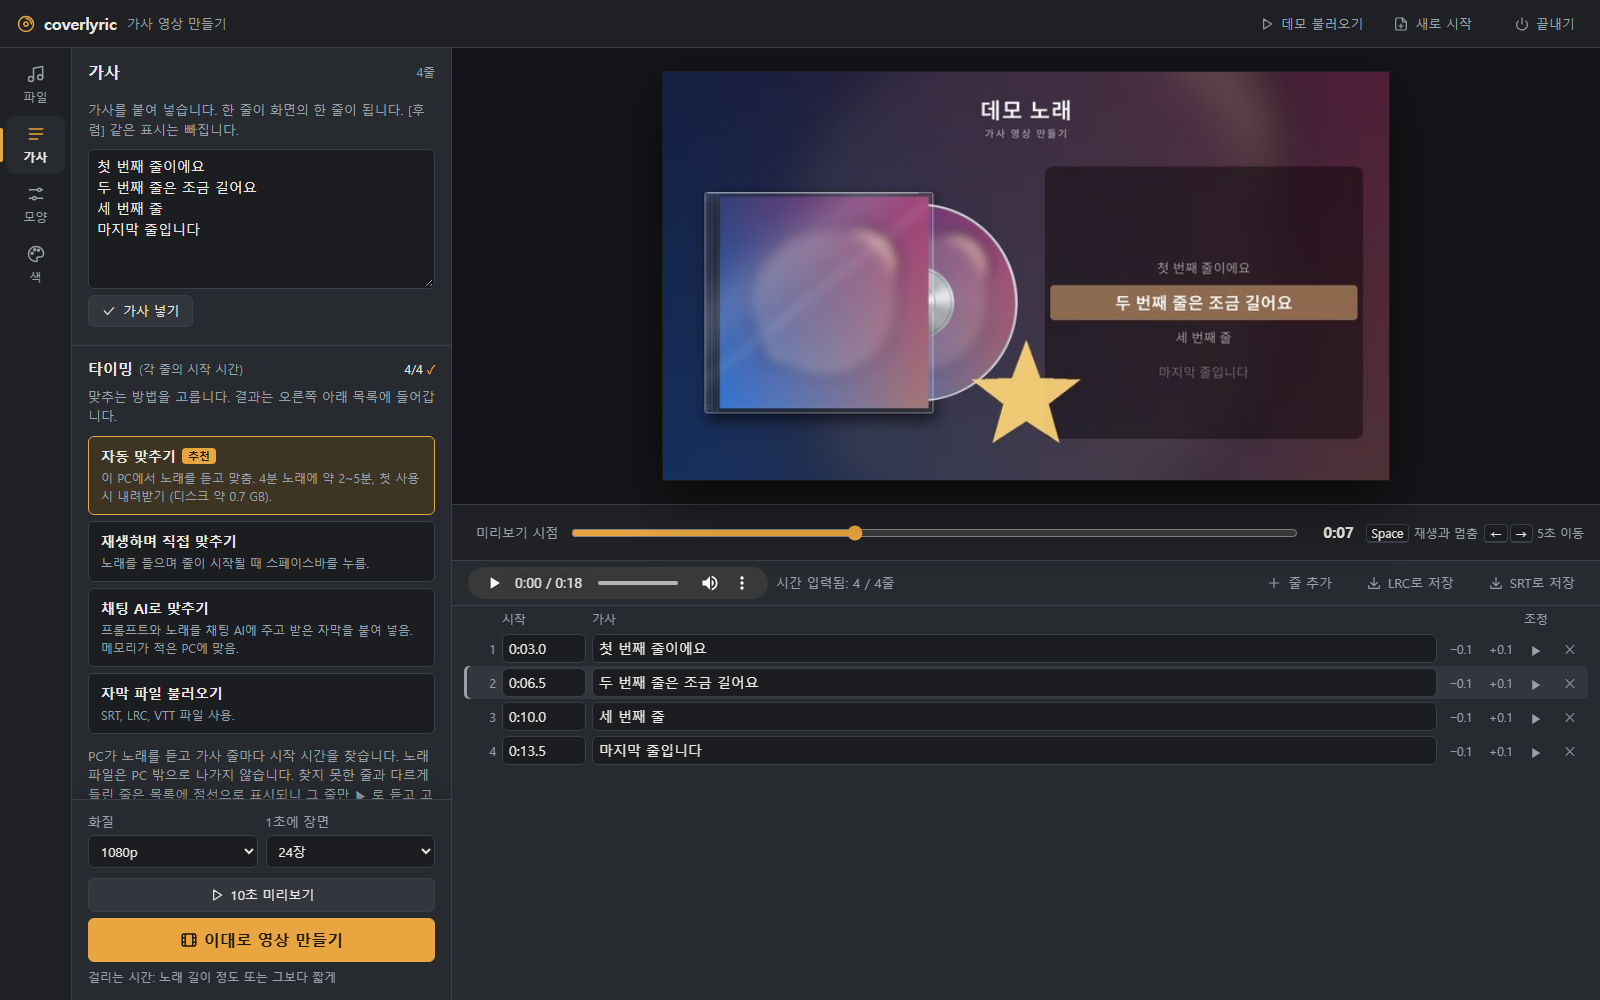
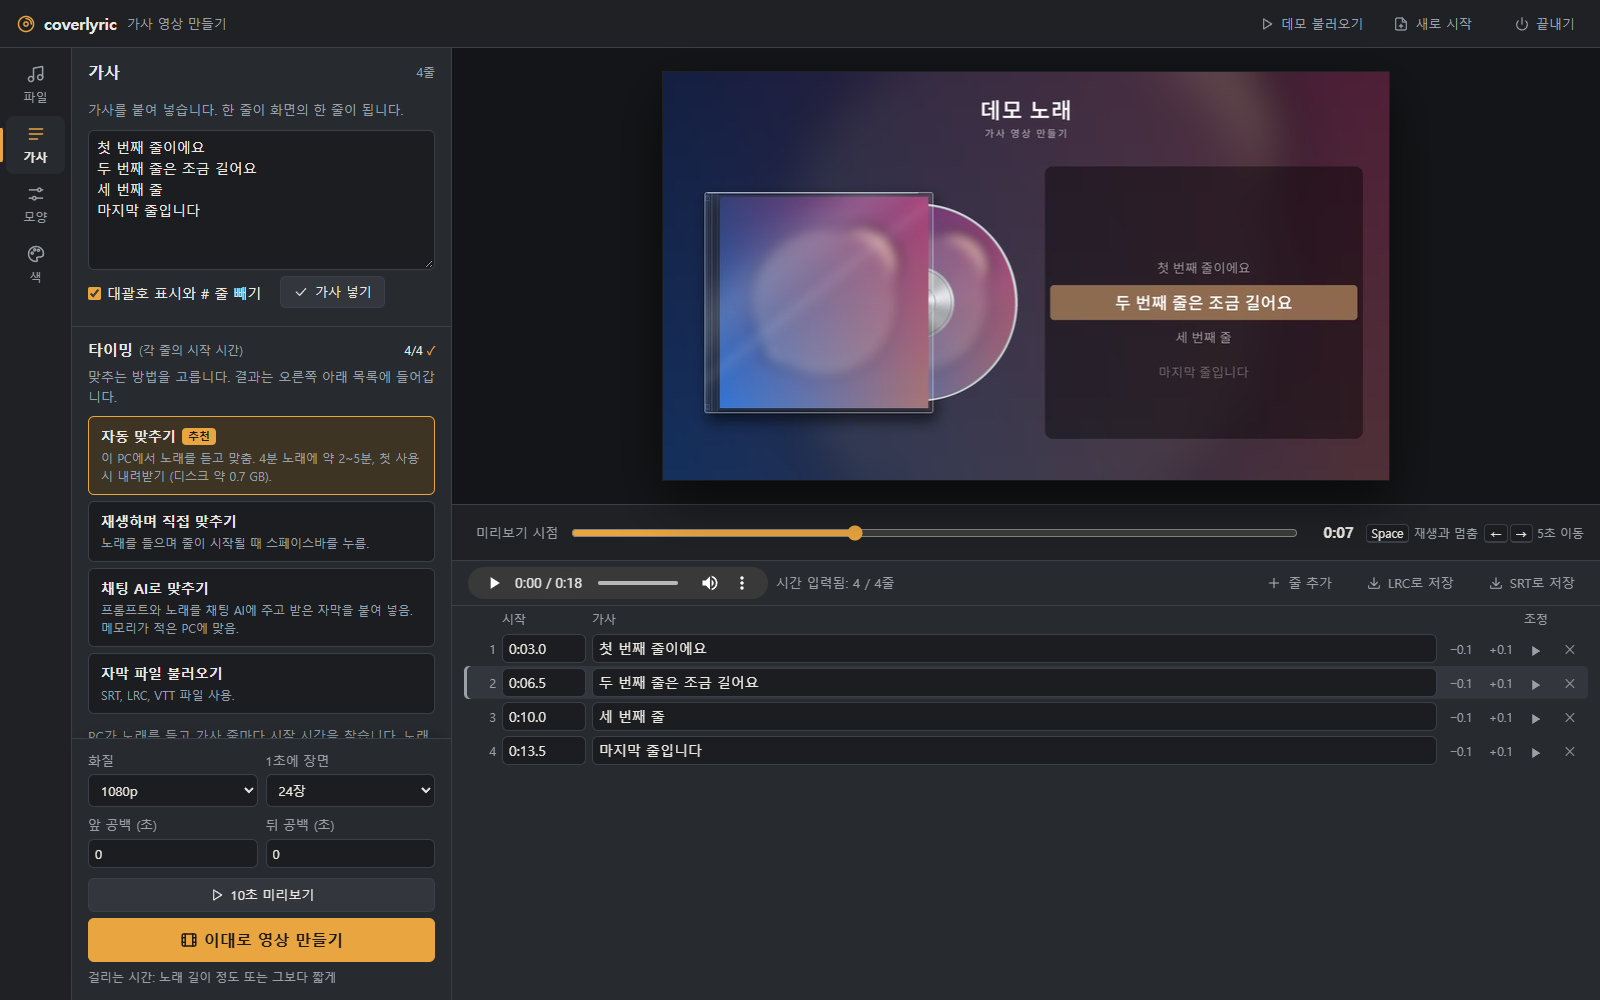
feat: switch for dropping [..] marks and # lines

diff --git a/src/coverlyric/web/app.js b/src/coverlyric/web/app.js
@@ -53,7 +53,7 @@ async function api(path, options = {}) {
 }
 
 function payload() {
-  return { title: state.title, artist: state.artist, lines: state.lines, style: state.style, anim: state.anim };
+  return { title: state.title, artist: state.artist, lines: state.lines, style: state.style, anim: state.anim, clean_tags: state.clean_tags };
 }
 
 function scheduleSync(delay = 150) {
@@ -387,6 +387,7 @@ function fillLook() {
 function fillAll() {
   $("title").value = state.title;
   $("artist").value = state.artist;
+  $("clean_tags").checked = state.clean_tags !== false;
   $("audio-name").textContent = state.has_audio ? `길이 ${clock(state.duration).replace(/\.\d+$/, "")}` : "없음";
   $("art-name").textContent = state.has_art ? "표지 있음" : "정사각형 권장";
   updateStatus();
@@ -720,7 +721,7 @@ async function loadFonts() {
 async function importText(name, text) {
   const res = await api("/api/import", {
     method: "POST",
-    headers: { "X-Name": encodeURIComponent(name) },
+    headers: { "X-Name": encodeURIComponent(name), "X-Clean": state.clean_tags === false ? "0" : "1" },
     body: text,
   });
   const data = await res.json();
@@ -1046,12 +1047,13 @@ function bind() {
   $("font-file").addEventListener("change", (e) => upload("font", e.target.files[0]));
   $("title").addEventListener("input", (e) => { state.title = e.target.value; scheduleSync(500); });
   $("artist").addEventListener("input", (e) => { state.artist = e.target.value; scheduleSync(500); });
+  $("clean_tags").addEventListener("change", (e) => { state.clean_tags = e.target.checked; scheduleSync(0); });
 
   $("lyrics-apply").addEventListener("click", async () => {
     const text = $("lyrics-text").value;
     if (!text.trim()) { toast("가사 칸이 비어 있습니다. 가사를 붙여 넣습니다."); return; }
     if (state.lines.some(([t]) => t != null) && !confirm("목록의 시간이 지워집니다. 새 가사로 바꾸시겠습니까?")) return;
-    const res = await api("/api/import", { method: "POST", headers: { "X-Name": "lyrics.txt" }, body: text });
+    const res = await api("/api/import", { method: "POST", headers: { "X-Name": "lyrics.txt", "X-Clean": state.clean_tags === false ? "0" : "1" }, body: text });
     state.lines = (await res.json()).lines;
     diff = [];
     drawLines();

diff --git a/src/coverlyric/web/index.html b/src/coverlyric/web/index.html
@@ -64,8 +64,9 @@
     </section>
     <section class="pane" id="g-lyrics" role="tabpanel" aria-labelledby="tab-lyrics" hidden>
       <h2 class="pane-head">가사<span class="state" id="state-lyrics"></span></h2>
-      <p class="help">가사를 붙여 넣습니다. 한 줄이 화면의 한 줄이 됩니다. [후렴] 같은 표시는 빠집니다.</p>
+      <p class="help">가사를 붙여 넣습니다. 한 줄이 화면의 한 줄이 됩니다.</p>
       <textarea id="lyrics-text" rows="6" placeholder="여기에 가사를 붙여 넣기"></textarea>
+      <label class="check" title="[Verse 1] 같은 대괄호 표시와 # 으로 시작하는 줄을 빼고 넣습니다. 끄면 쓴 그대로 넣습니다 (빈 줄은 뺍니다)"><input type="checkbox" id="clean_tags"> 대괄호 표시와 # 줄 빼기</label>
       <button id="lyrics-apply"><svg class="i"><use href="#i-check"/></svg>가사 넣기</button>
       <h2 class="pane-head sub">타이밍 <span class="note">(각 줄의 시작 시간)</span><span class="state" id="state-timing"></span></h2>
       <p class="help">맞추는 방법을 고릅니다. 결과는 오른쪽 아래 목록에 들어갑니다.</p>

diff --git a/src/coverlyric/timing.py b/src/coverlyric/timing.py
@@ -22,31 +22,33 @@ SECTION = re.compile(
 BRACKETS = re.compile(r"\[[^\]]*\]")
 
 
-def sung(line: str) -> str:
+def sung(line: str, clean: bool = True) -> str:
     """The words of a lyric line that are sung. Square-bracket notes such as Suno's
     "[Verse 1 — Conversational, rhythmic]" are removed, a line starting with # is a comment and
     becomes empty, and a whole-line section tag such as (Chorus) is dropped. Round brackets inside a
-    line, such as "(echo)", are sung and stay."""
+    line, such as "(echo)", are sung and stay. With `clean` off the line is kept as typed."""
     line = line.strip()
+    if not clean:
+        return line
     if line.startswith("#") or SECTION.match(line):
         return ""
     return " ".join(BRACKETS.sub(" ", line).split())
 
 
-def from_text(text: str) -> list[Line]:
+def from_text(text: str, clean: bool = True) -> list[Line]:
     """One line per sung line of the pasted lyrics, without times. Blank lines, # comments and lines
     that are only [..] tags are dropped."""
-    return [(None, line) for raw in text.splitlines() if (line := sung(raw))]
+    return [(None, line) for raw in text.splitlines() if (line := sung(raw, clean))]
 
 
-def parse_lrc(text: str) -> list[Line]:
+def parse_lrc(text: str, clean: bool = True) -> list[Line]:
     rows = []
     for raw in text.splitlines():
         stamps = list(STAMP.finditer(raw))
         if not stamps:
             continue
         words = raw[stamps[-1].end() :]
-        words = sung(re.sub(r"<\d+:\d+(?:\.\d+)?>", "", words))  # enhanced LRC word stamps
+        words = sung(re.sub(r"<\d+:\d+(?:\.\d+)?>", "", words), clean)  # enhanced LRC word stamps
         for m in stamps:
             rows.append((int(m[1]) * 60 + float(m[2].replace(":", ".")), words))
     return sorted(rows, key=lambda r: r[0])
@@ -56,7 +58,7 @@ def cue_seconds(h: str | None, m: str, s: str, ms: str) -> float:
     return int(h or 0) * 3600 + int(m) * 60 + int(s) + int(ms.ljust(3, "0")) / 1000
 
 
-def parse_cues(text: str) -> list[Line]:
+def parse_cues(text: str, clean: bool = True) -> list[Line]:
     """SRT and WebVTT: each cue's start and its text joined on one line; a gap between cues longer than
     a second becomes an empty line, so the band leaves the last line when the singing stops."""
     rows: list[Line] = []
@@ -68,7 +70,7 @@ def parse_cues(text: str) -> list[Line]:
             if m := CUE_TIME.search(raw):
                 start = cue_seconds(*m.groups()[:4])
                 end = cue_seconds(*m.groups()[4:])
-                words = " ".join(w for b in block[i + 1 :] if (w := sung(TAG.sub("", b))))
+                words = " ".join(w for b in block[i + 1 :] if (w := sung(TAG.sub("", b), clean)))
                 if ends and start - ends[-1] > 1.0:
                     rows.append((ends[-1], ""))
                 rows.append((start, words))
@@ -85,17 +87,17 @@ def parse_cues(text: str) -> list[Line]:
     return rows
 
 
-def parse(name: str, text: str) -> list[Line]:
+def parse(name: str, text: str, clean: bool = True) -> list[Line]:
     """Read a timing file by its extension, or by its look when the extension says nothing."""
     text = text.lstrip("")
     lower = name.lower()
     if lower.endswith(".lrc"):
-        return parse_lrc(text)
+        return parse_lrc(text, clean)
     if lower.endswith((".srt", ".vtt")) or "-->" in text:
-        return parse_cues(text)
+        return parse_cues(text, clean)
     if STAMP.search(text):
-        return parse_lrc(text)
-    return from_text(text)
+        return parse_lrc(text, clean)
+    return from_text(text, clean)
 
 
 def stamp(seconds: float) -> str:

diff --git a/src/coverlyric/server.py b/src/coverlyric/server.py
@@ -166,6 +166,8 @@ class App:
             p.lines = [
                 (None if t is None else round(float(t), 3), str(text)) for t, text in data["lines"]
             ]
+        if "clean_tags" in data:
+            p.clean_tags = bool(data["clean_tags"])
         if "style" in data:
             style = Style.from_dict(data["style"])
             if not fonts.allowed(style.font, self.work):
@@ -827,7 +829,10 @@ def handler(app: App, server_ref: list) -> type[BaseHTTPRequestHandler]:
                 elif url.path == "/api/import":
                     name = unquote(self.headers.get("X-Name", "lyrics.txt"))
                     text = self.body().decode("utf-8-sig", errors="replace")
-                    lines = timing.parse(name, text)
+                    clean = self.headers.get("X-Clean")
+                    if clean is not None:
+                        app.project.clean_tags = clean != "0"
+                    lines = timing.parse(name, text, app.project.clean_tags)
                     if not lines:
                         raise ValueError(
                             "이 파일에서 가사 줄을 찾지 못했습니다. SRT, LRC, VTT 파일인지 확인합니다."

diff --git a/src/coverlyric/project.py b/src/coverlyric/project.py
@@ -22,6 +22,7 @@ class Project:
     lines: list[timing.Line] = field(default_factory=list)
     style: Style = field(default_factory=Style)
     anim: list[str] = field(default_factory=list)  # the moving picture: one GIF or images in order
+    clean_tags: bool = True  # lyrics put in lose [..] notes and # lines (timing.sung)
 
     @classmethod
     def load(cls, path: Path) -> Project:
@@ -41,6 +42,7 @@ class Project:
             lines=lines,
             style=Style.from_dict(data.get("style", {})),
             anim=[str(name) for name in data.get("anim", [])],
+            clean_tags=bool(data.get("clean_tags", True)),
         )
 
     def to_dict(self) -> dict:
@@ -53,6 +55,7 @@ class Project:
             "lines": [list(line) for line in self.lines],
             "style": self.style.to_dict(),
             "anim": list(self.anim),
+            "clean_tags": self.clean_tags,
         }
 
     def save(self, path: Path) -> None:

diff --git a/tests/test_timing.py b/tests/test_timing.py
@@ -121,3 +121,18 @@ def test_tags_in_lrc_lines():
         (1.0, "후렴"),
         (5.0, ""),
     ]
+
+
+def test_with_cleaning_off_the_lyrics_stay_as_typed():
+    assert timing.parse("lyrics.txt", SUNO, clean=False) == [
+        (None, "[Intro]"),
+        (None, "[Verse 1 — Conversational, rhythmic]"),
+        (None, "창문을 열면 바람이 불어"),
+        (None, "# 여기는 2절 앞에 쉬는 곳"),
+        (None, "너의 이름을 불러 (echo)"),
+        (None, "[Instrumental — Wistful guitar solo]"),
+        (None, "[Chorus]"),
+        (None, "우리 다시 만나 [softly] 그 길에서"),
+    ]
+    answer = "1\n00:00:03,000 --> 00:00:06,000\n[Verse 1] 창문을 열면\n"
+    assert timing.parse("answer.srt", answer, clean=False) == [(3.0, "[Verse 1] 창문을 열면")]

diff --git a/tests/test_server.py b/tests/test_server.py
@@ -171,3 +171,17 @@ def test_the_preview_says_which_lines_are_too_wide(base):
     fits = json.loads(headers["X-Fit"])
     assert len(fits) == len(lines)
     assert fits[0] == [1.0, 1] and fits[1][1] == 2
+
+
+def test_import_follows_the_tag_switch(base):
+    text = "[Verse 1]\n첫 줄 [softly]\n# 메모\n".encode()
+    on = json.loads(call(f"{base}/api/import", text, {"X-Name": "lyrics.txt"})[0])
+    assert on["lines"] == [[None, "첫 줄"]]
+    off = call(f"{base}/api/import", text, {"X-Name": "lyrics.txt", "X-Clean": "0"})[0]
+    assert json.loads(off)["lines"] == [
+        [None, "[Verse 1]"],
+        [None, "첫 줄 [softly]"],
+        [None, "# 메모"],
+    ]
+    state = json.loads(call(f"{base}/api/state", {})[0])
+    assert state["clean_tags"] is False

diff --git a/tests/test_clean_option.py b/tests/test_clean_option.py
@@ -1,0 +1,18 @@
+"""The 대괄호 표시와 # 줄 빼기 switch: on by default, kept with the project."""
+
+from coverlyric import server
+from coverlyric.project import Project
+
+
+def test_old_projects_keep_cleaning_on(tmp_path):
+    assert Project.from_dict(tmp_path, {}).clean_tags is True
+    project = Project(tmp_path, clean_tags=False)
+    assert Project.from_dict(tmp_path, project.to_dict()).clean_tags is False
+
+
+def test_the_page_turns_it_off_and_it_is_saved(tmp_path):
+    app = server.App(tmp_path)
+    assert app.state()["clean_tags"] is True
+    app.update({"clean_tags": False})
+    app.save()
+    assert server.App(tmp_path).project.clean_tags is False

diff --git a/docs/guide.md b/docs/guide.md
@@ -40,6 +40,9 @@
 - 빈 줄, `#` 으로 시작하는 줄, `[후렴]`, `[Verse 1 — Conversational, rhythmic]` 같은 대괄호 표시는
   빠집니다. 줄 안의 대괄호 표시만 지우고 나머지는 남깁니다. 둥근 괄호 `(echo)` 는 남습니다.
   붙여 넣은 자막과 자막 파일에도 같게 적용됩니다.
+- 이렇게 빼는 것은 **가사 넣기** 옆의 **대괄호 표시와 # 줄 빼기**로 켜고 끕니다 (처음에는 켜짐, 작업과
+  함께 저장). 끄면 쓴 그대로 넣고 빈 줄만 뺍니다. 가사 넣기, 채팅 AI 답 붙여 넣기, 자막 파일에 같이
+  적용됩니다.
 
 ## 타이밍
 

diff --git a/docs/guide.en.md b/docs/guide.en.md
@@ -45,6 +45,9 @@ line without a time).
   `[Verse 1 — Conversational, rhythmic]` are dropped. A mark inside a line is removed and the rest of
   the line stays. Round brackets such as `(echo)` stay. The same applies to pasted and loaded
   subtitles.
+- **대괄호 표시와 # 줄 빼기** (drop bracket marks and # lines), next to **가사 넣기**, turns this on and
+  off (on at first, saved with the work). Off, the lyrics go in as typed, with only blank lines left
+  out. It applies to pasted lyrics, the pasted chat-AI answer and subtitle files alike.
 
 ## Timing
 

diff --git a/README.en.md b/README.en.md
@@ -25,8 +25,8 @@ pick cover), then type the title and the artist.
 ## Lyrics
 
 In **가사** (lyrics), paste the lyrics and click **가사 넣기** (add lyrics). Each line becomes one line
-on screen. Blank lines, lines starting with `#` and square-bracket marks such as `[Verse 1]` are
-left out.
+on screen. Blank lines are left out; with **대괄호 표시와 # 줄 빼기** (drop bracket marks and # lines)
+on, lines starting with `#` and square-bracket marks such as `[Verse 1]` are left out too.
 
 ## Timing
 

diff --git a/README.md b/README.md
@@ -24,7 +24,8 @@
 ## 가사
 
 **가사**에 가사를 붙여 넣고 **가사 넣기**를 누릅니다. 한 줄이 화면의 한 줄이 됩니다.
-빈 줄, `#` 으로 시작하는 줄, `[Verse 1]` 같은 대괄호 표시는 빠집니다.
+빈 줄은 빠지고, **대괄호 표시와 # 줄 빼기**가 켜져 있으면 `#` 으로 시작하는 줄과 `[Verse 1]` 같은
+대괄호 표시도 빠집니다.
 
 ## 타이밍
 
